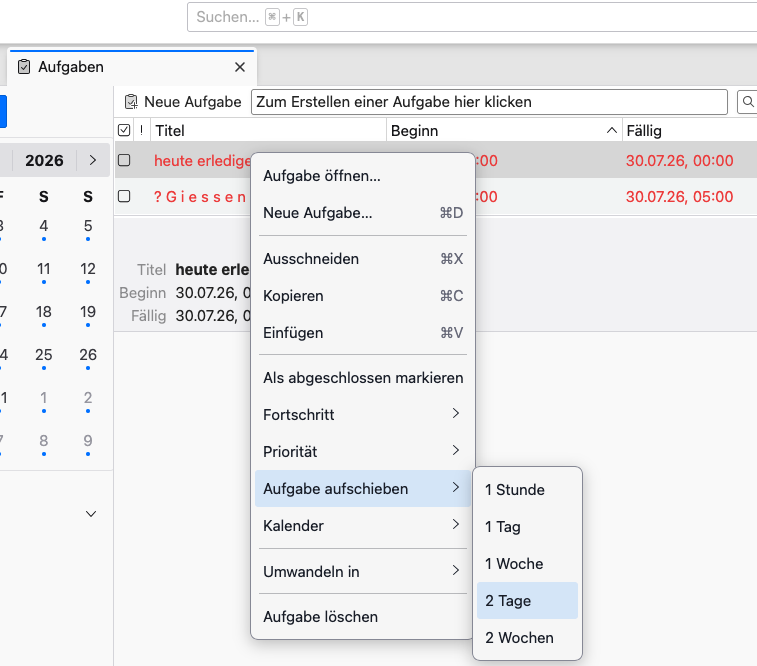
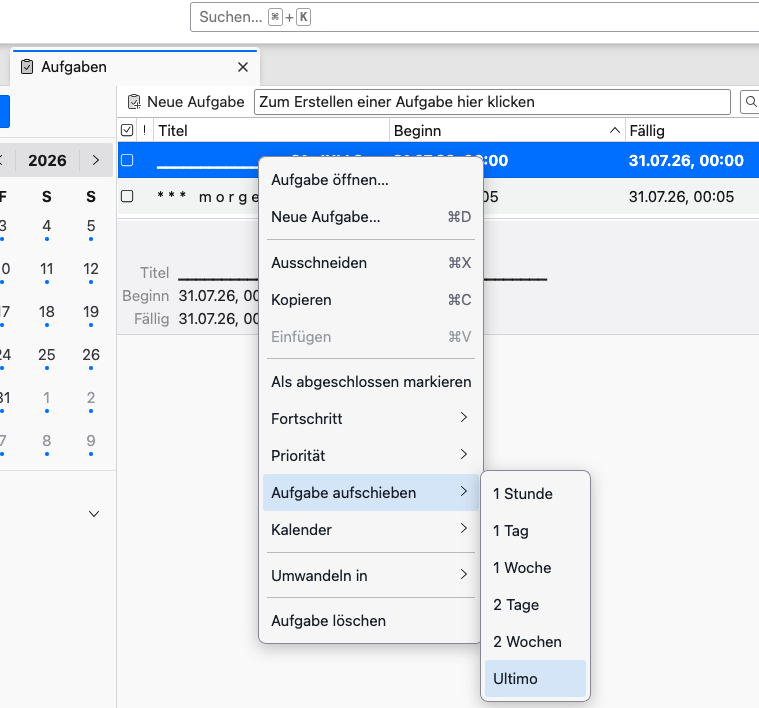
Add files via upload
zusätzliche Datum: Aufschieben auf den nächstfolgenden Monatsletzten

diff --git a/implementation.js b/implementation.js
@@ -39,6 +39,16 @@ var calendar_menu_experiment = class extends globalThis.ExtensionAPI {
                     item2Weeks.addEventListener("command", () => { executePostponeLogic(window, 14); });
                     popup.appendChild(item2Weeks);
                   }
+                    
+                  // 3. EINTRAG: auf Monatsletzten aufschieben
+                  let idUltimo = "task-context-postpone-Ultimo-" + popup.id;
+                  if (!window.document.getElementById(idUltimo)) {
+                    let itemUltimo = window.document.createXULElement("menuitem");
+                    itemUltimo.setAttribute("id", idUltimo);
+                    itemUltimo.setAttribute("label", "Ultimo");
+                    itemUltimo.addEventListener("command", () => { executePostponeLogic(window, -31); });
+                    popup.appendChild(itemUltimo);
+                  }
                 }
               }, false);
 
@@ -59,27 +69,75 @@ var calendar_menu_experiment = class extends globalThis.ExtensionAPI {
 
 // Interne Rechenlogik für das Verschieben der Tage
 function executePostponeLogic(window, days) {
-  let taskTree = window.document.getElementById("calendar-task-tree") || 
-                 window.document.querySelector("calendar-task-tree") ||
-                 window.document.querySelector("calendar-task-view")?.shadowRoot?.querySelector("calendar-task-tree");
+  let taskTree = window.document.getElementById('calendar-task-tree') ||
+                 window.document.querySelector('calendar-task-tree') ||
+                 window.document.querySelector('calendar-task-view')?.shadowRoot?.querySelector('calendar-task-tree');
+
+  // Hilfsfunktion zur Berechnung des Monatsletzten (inkl. Jahreswechsel)
+  function getTargetDate(dateObj) {
+    if (!dateObj || typeof dateObj.year !== 'number' || typeof dateObj.month !== 'number' || typeof dateObj.day !== 'number') {
+      return null;
+    }
+    
+    let currentYear = dateObj.year;
+    let currentMonth = dateObj.month; // Geht davon aus, dass das System 0-basierte Monate nutzt (Jan = 0)
+    let currentDay = dateObj.day;
+
+    // 1. Letzten Tag des aktuellen Monats ermitteln (Tag 0 des Folgemonats)
+    let endOfCurrentMonthDate = new Date(currentYear, currentMonth + 1, 0);
+    let endOfCurrentMonthDay = endOfCurrentMonthDate.getDate();
+
+    if (currentDay === endOfCurrentMonthDay) {
+      // 2. Bereits Monatsletzter: Ermittle letzten Tag des Folgemonats.
+      // JS korrigiert den Jahreswechsel automatisch (z.B. Monat 11 + 2 = Monat 13 -> Februar des Folgejahres)
+      let endOfNextMonthDate = new Date(currentYear, currentMonth + 2, 0);
+      return {
+        year: endOfNextMonthDate.getFullYear(),
+        month: endOfNextMonthDate.getMonth(),
+        day: endOfNextMonthDate.getDate()
+      };
+    } else {
+      // 3. Kein Monatsletzter: Auf aktuellen Monatsletzten setzen
+      return {
+        year: currentYear,
+        month: currentMonth,
+        day: endOfCurrentMonthDay
+      };
+    }
+  }
+
+  // Hilfsfunktion zum Anwenden der Datumsänderung
+  function updateTaskDates(task) {
+    if (days === -31) {
+      if (task.dueDate) {
+        let newDue = getTargetDate(task.dueDate);
+        if (newDue) Object.assign(task.dueDate, newDue);
+      }
+      if (task.entryDate) {
+        let newEntry = getTargetDate(task.entryDate);
+        if (newEntry) Object.assign(task.entryDate, newEntry);
+      }
+    } else {
+      // Standard-Logik für normale Tages-Verschiebungen
+      if (task.dueDate) { task.dueDate.day += days; }
+      if (task.entryDate) { task.entryDate.day += days; }
+    }
+  }
 
   if (taskTree && taskTree.currentTask) {
     let task = taskTree.currentTask.clone();
-    
-    if (task.dueDate) { task.dueDate.day += days; }
-    if (task.entryDate) { task.entryDate.day += days; }
-
+    updateTaskDates(task);
     task.calendar.modifyItem(task, taskTree.currentTask, null);
   } else {
     try {
       let currentTask = window.CalendarTaskView?.getSelectedTask?.() || window.currentTask;
       if (currentTask) {
         let task = currentTask.clone();
-        if (task.dueDate) { task.dueDate.day += days; }
+        updateTaskDates(task);
         task.calendar.modifyItem(task, currentTask, null);
       }
     } catch (e) {
-      console.error("[Addon] Verschiebung im System fehlgeschlagen:", e);
+      console.error("[Addon] Verschiebung im System fehlgeschlagen: ", e);
     }
   }
 }
